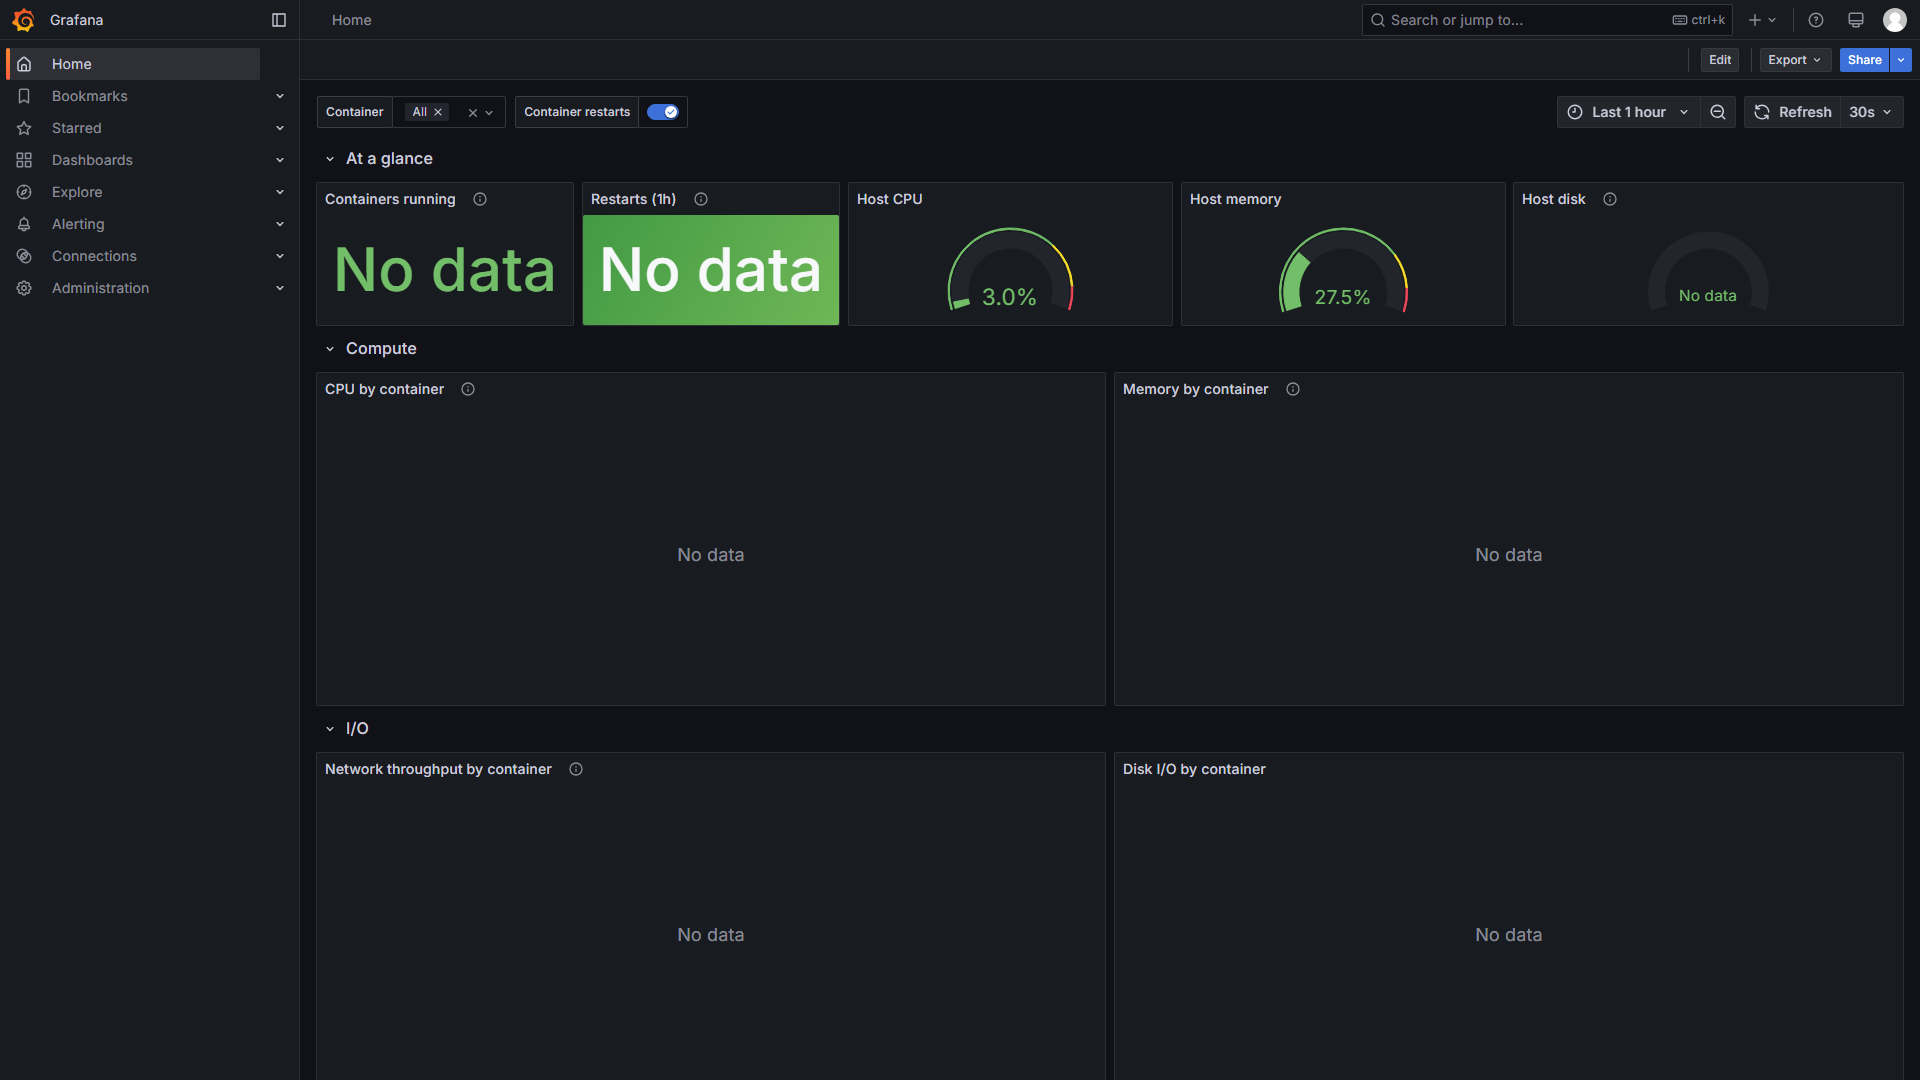
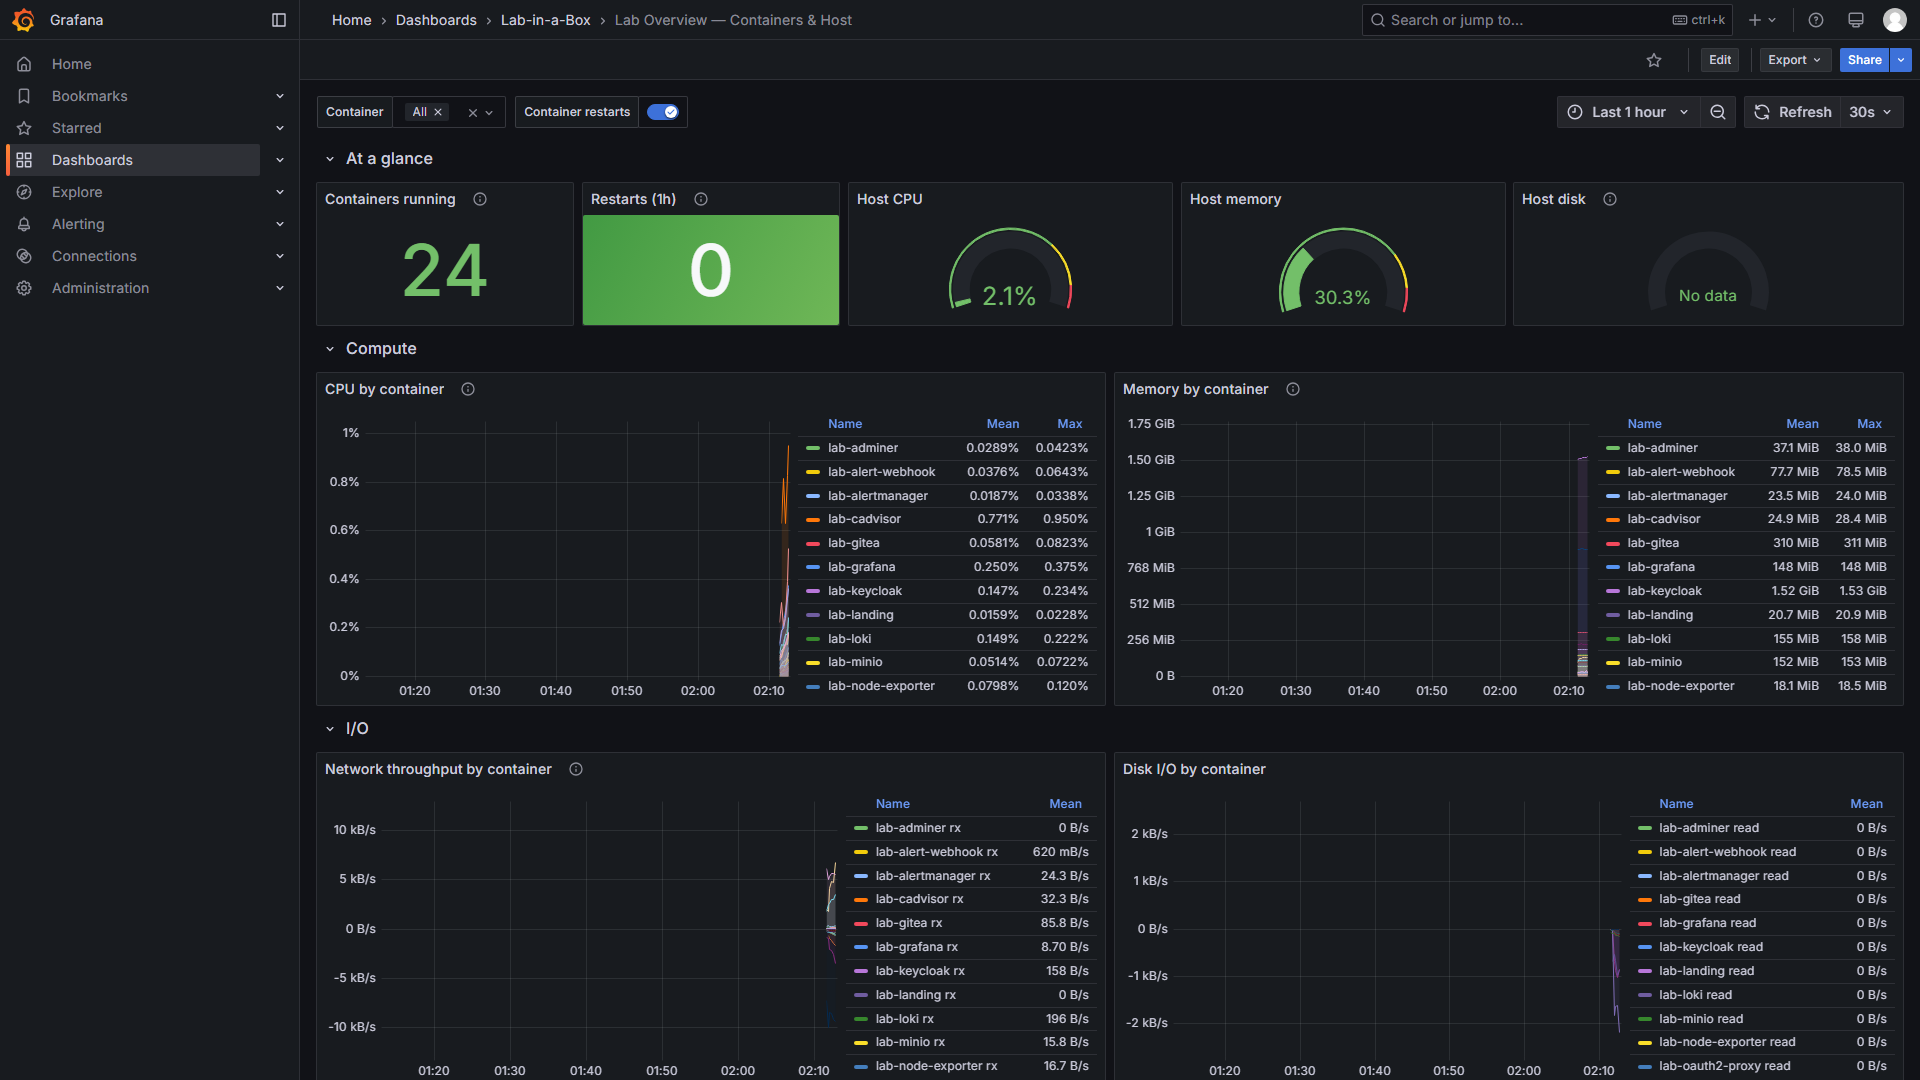
Show named container metrics on the Lab Overview dashboard. (#39)
cAdvisor v0.49.1 cannot map containers when Docker uses the containerd snapshotter, so the overview queries that require a container name stayed empty. v0.60.6 reports those names with the same flags. The screenshot is the running Lab Overview dashboard after that change.

diff --git a/docs/SERVICES.md b/docs/SERVICES.md
@@ -47,7 +47,7 @@ _Metrics, logs, alerts and dashboards_
 | `grafana` | `grafana/grafana:11.5.0` | `grafana.lab.localhost` | — | edge, observability | ✅ | uid `472:472` |
 | `loki` | `grafana/loki:3.3.2` | — | — | observability | ✅ | uid `10001:10001` |
 | `promtail` | `grafana/promtail:3.3.2` | — | — | observability, socket | ✅ | — |
-| `cadvisor` | `gcr.io/cadvisor/cadvisor:v0.49.1` | — | — | observability | ✅ | **privileged** |
+| `cadvisor` | `ghcr.io/google/cadvisor:v0.60.6` | — | — | observability | ✅ | **privileged** |
 | `node-exporter` | `prom/node-exporter:v1.8.2` | — | — | observability | ✅ | — |
 
 ## AI
